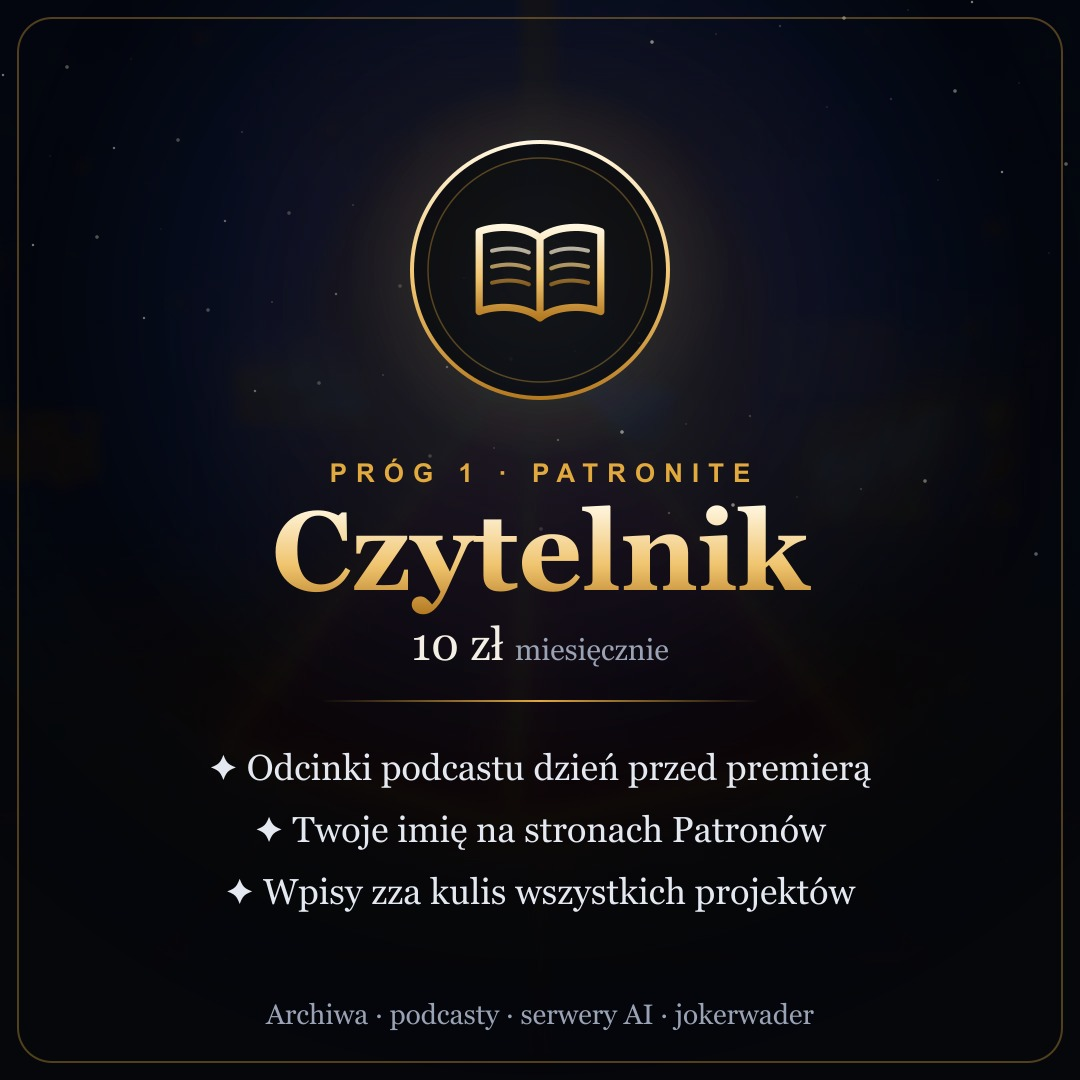
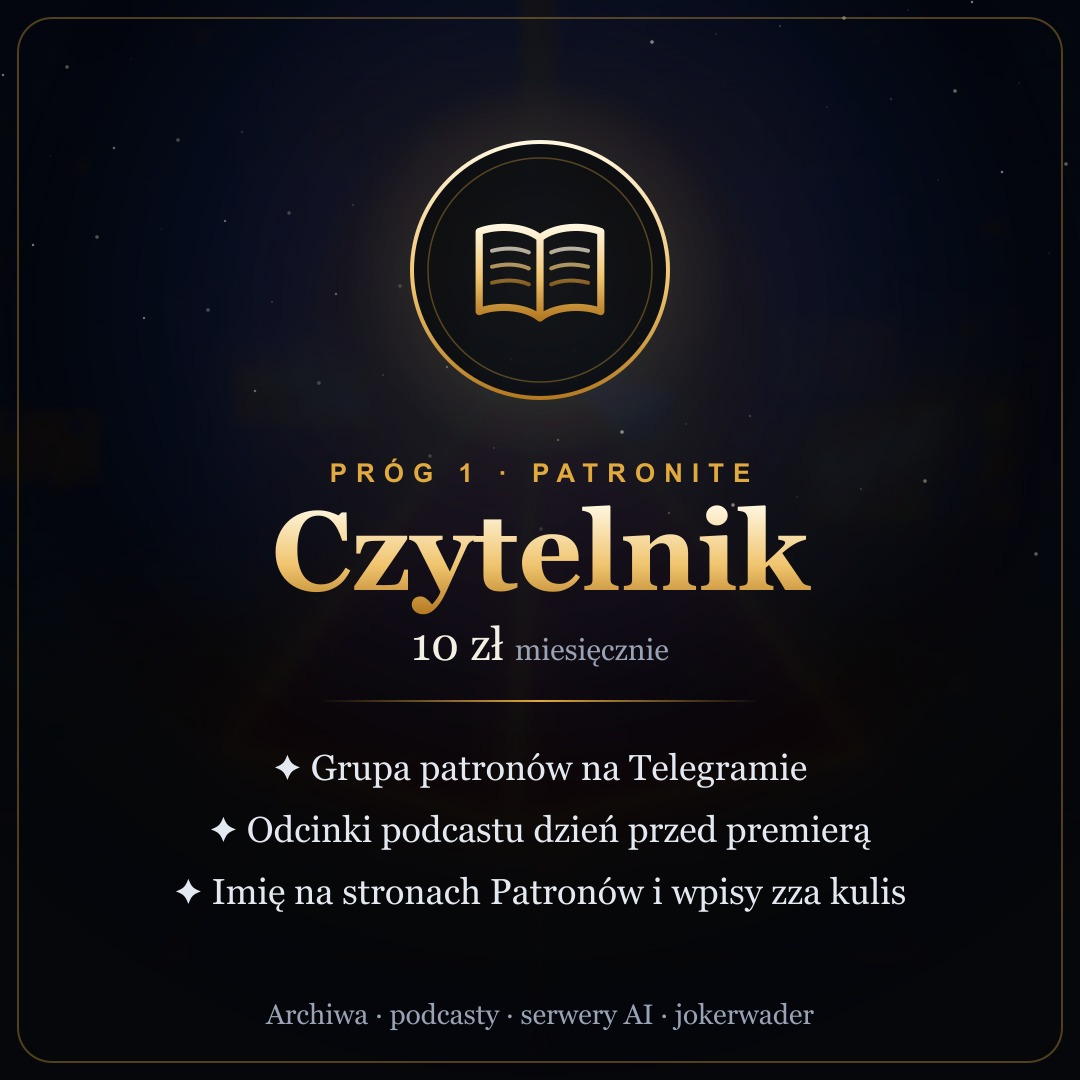
Patronite: grupa na Telegramie dla wszystkich patronów (próg Czytelnik i wyżej)

Changed region(s): [[0.1528, 0.7028, 0.825, 0.8556]]

diff --git a/scripts/grafika-patronite.ts b/scripts/grafika-patronite.ts
@@ -34,7 +34,7 @@ const ZNAKI: Record<string, string> = {
 // kwoty jak zaleca Patronite (10, 20, 30, 50, 100 zł; kwoty progu nie da się później zmienić);
 // próg 10 zł wybiera najwięcej osób, więc ma najatrakcyjniejszą nagrodę: odcinek dzień przed premierą
 const PROGI = [
-  { nr: 1, nazwa: "Czytelnik", kwota: "10 zł", znak: "ksiazka", jasnosc: 0.15, zalety: ["Odcinki podcastu dzień przed premierą", "Twoje imię na stronach Patronów", "Wpisy zza kulis wszystkich projektów"] },
+  { nr: 1, nazwa: "Czytelnik", kwota: "10 zł", znak: "ksiazka", jasnosc: 0.15, zalety: ["Grupa patronów na Telegramie", "Odcinki podcastu dzień przed premierą", "Imię na stronach Patronów i wpisy zza kulis"] },
   { nr: 2, nazwa: "Odkrywca", kwota: "20 zł", znak: "kompas", jasnosc: 0.25, zalety: ["Imię w napisach końcowych filmów", "Głos w wyborze tematów i archiwów", "Wszystko z progu Czytelnik"] },
   { nr: 3, nazwa: "Badacz", kwota: "30 zł", znak: "mapa", jasnosc: 0.35, zalety: ["Co miesiąc mapa lub grafika do druku", "Nowości przed publikacją", "Wszystko z niższych progów"] },
   { nr: 4, nazwa: "Mecenas", kwota: "50 zł", znak: "piramida", jasnosc: 0.48, zalety: ["Pierwszeństwo Twoich tematów i propozycji", "Spotkanie online raz na kwartał", "Wszystko z niższych progów"] },
